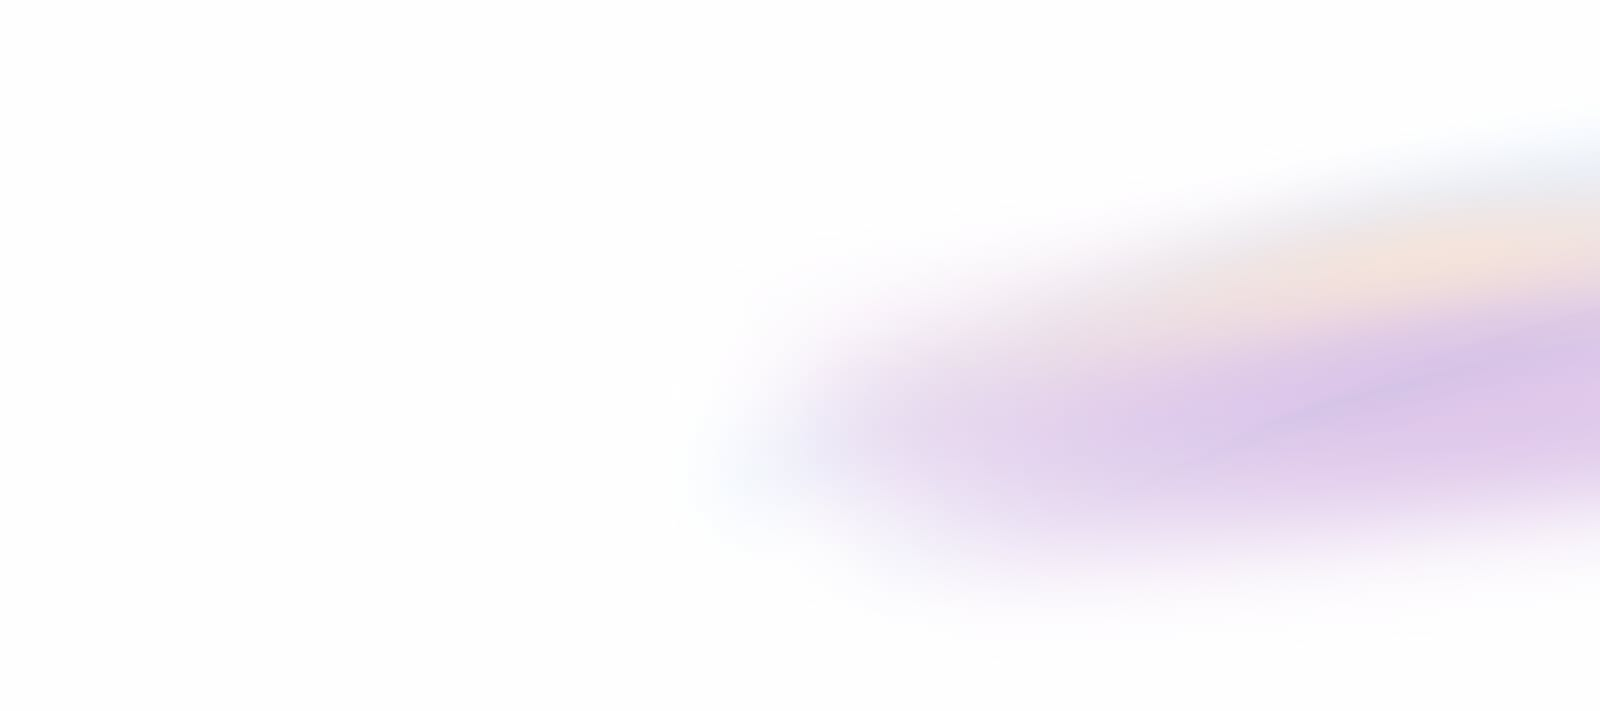
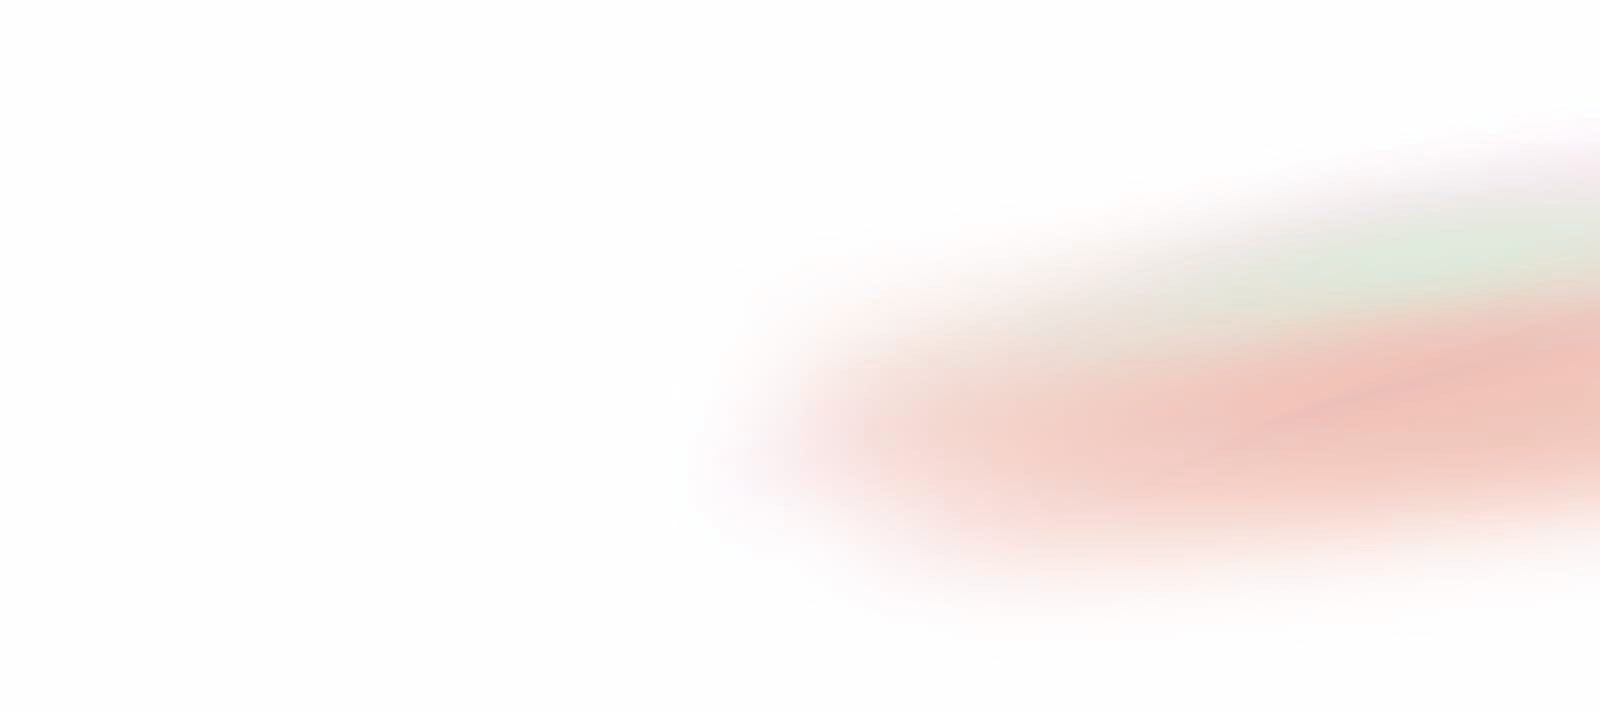
[CHANGED] Updated colors

Changed region(s): [[0.5312, 0.4023, 1.0, 0.7736]]

diff --git a/src/styles/global.css b/src/styles/global.css
@@ -1,7 +1,7 @@
 /* Global variables */
 :root {
 	/* Colors */
-	--gray-0: #090b11;
+	--gray-0: #0b1113;
 	--gray-50: #141925;
 	--gray-100: #283044;
 	--gray-200: #3d4663;
@@ -16,10 +16,10 @@
 	--gray-999_40: hsla(var(--gray-999-basis), 0.4);
 	--gray-999: #ffffff;
 
-	--accent-light: #c561f6;
-	--accent-regular: #7611a6;
-	--accent-dark: #1c0056;
-	--accent-overlay: hsla(280, 89%, 67%, 0.33);
+	--accent-light: #e7ab6b;
+	--accent-regular: #d48734;
+	--accent-dark: #874b06;
+	--accent-overlay: hsla(46, 89%, 67%, 0.33);
 	--accent-subtle-overlay: var(--accent-overlay);
 	--accent-text-over: var(--gray-999);
 
@@ -38,7 +38,7 @@
 	);
 	--gradient-accent-orange: linear-gradient(
 		150deg,
-		#ca7879,
+		#cec880,
 		var(--accent-regular),
 		var(--accent-dark)
 	);
@@ -86,22 +86,22 @@
 	--gray-800: #283044;
 	--gray-900: #141925;
 	--gray-999-basis: 225, 31%, 5%;
-	--gray-999: #090b11;
+	--gray-999: #0b1113;
 
-	--accent-light: #1c0056;
-	--accent-regular: #7611a6;
-	--accent-dark: #c561f6;
-	--accent-overlay: hsla(280, 89%, 67%, 0.33);
-	--accent-subtle-overlay: hsla(281, 81%, 36%, 0.33);
-	--accent-text-over: var(--gray-0);
+	--accent-light: #e18f35;
+	--accent-regular: #d48734;
+	--accent-dark: #874b06;
+	--accent-overlay: hsla(46, 89%, 67%, 0.33);
+	--accent-subtle-overlay: var(--accent-overlay);
+	--accent-text-over: var(--gray-999);
 
 	--link-color: var(--accent-dark);
 
-	--gradient-stop-1: #4c11c6;
+	--gradient-stop-1: var(--accent-light);
 	--gradient-subtle: linear-gradient(150deg, var(--gray-900) 19%, var(--gray-999) 81%);
 	--gradient-accent-orange: linear-gradient(
 		150deg,
-		#ca7879,
+		#cec880,
 		var(--accent-regular),
 		var(--accent-light)
 	);
